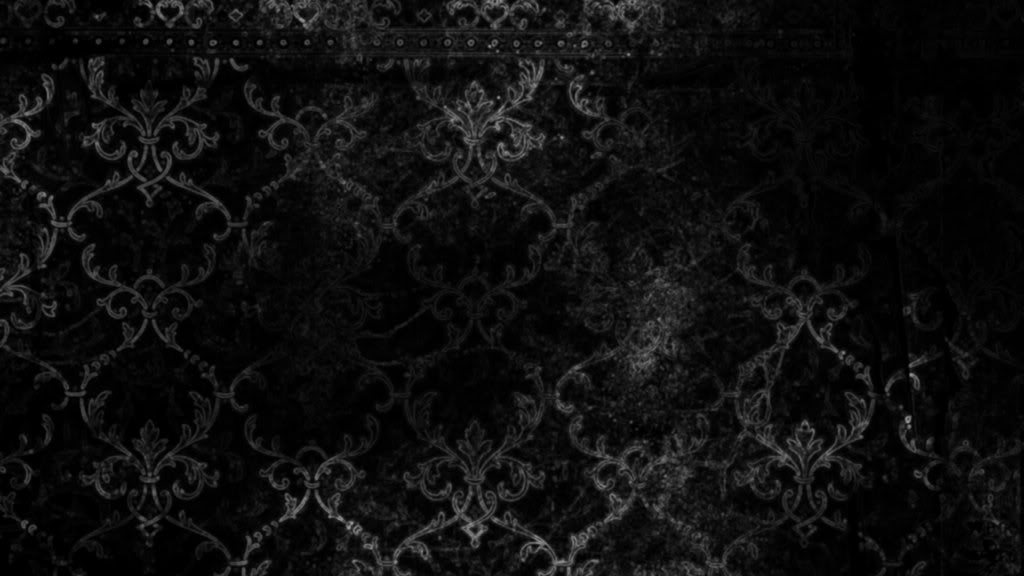
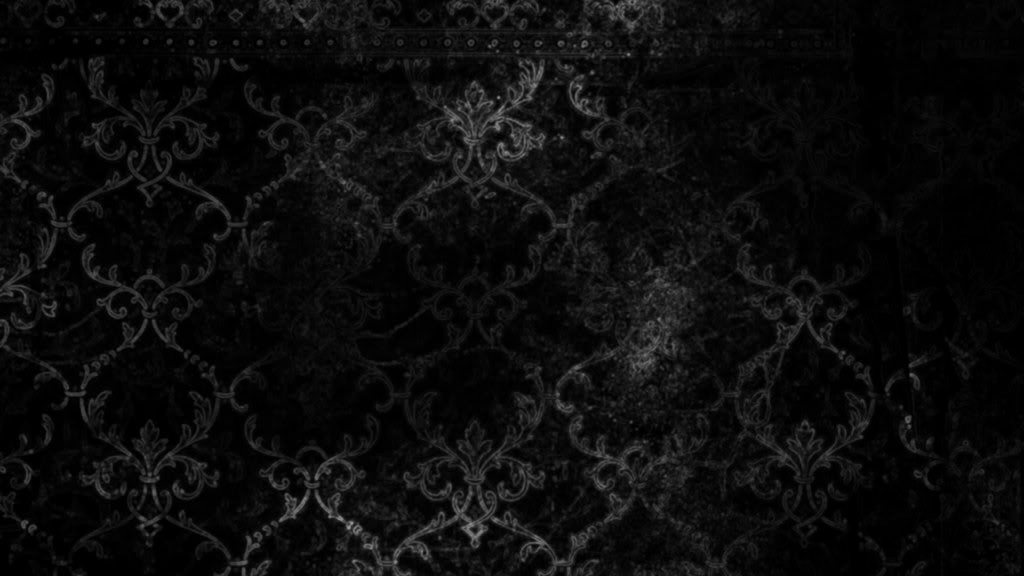
Changing backgrounds

diff --git a/index.html b/index.html
@@ -35,8 +35,8 @@
             letter-spacing:2px;
             }
 
-        body {
-            background-image: url(img/backgroundblack.jpg);
+        body {gi
+            background-image: url(img/backgroundblackgreen.jpg);
             background-position: center;
             background-size: cover;
             background-color:black;
@@ -136,7 +136,7 @@
 
 
 <div class="center">
-    <h2> CODER | ARTIST | ACADEMIC</h2>
+    <h2> ARTIST | CODER | ACADEMIC</h2>
     <h1>Sven Delarivi&egrave;re&nbsp</h1>
     <h3>- Portfolio website -</h3>
 </div>
